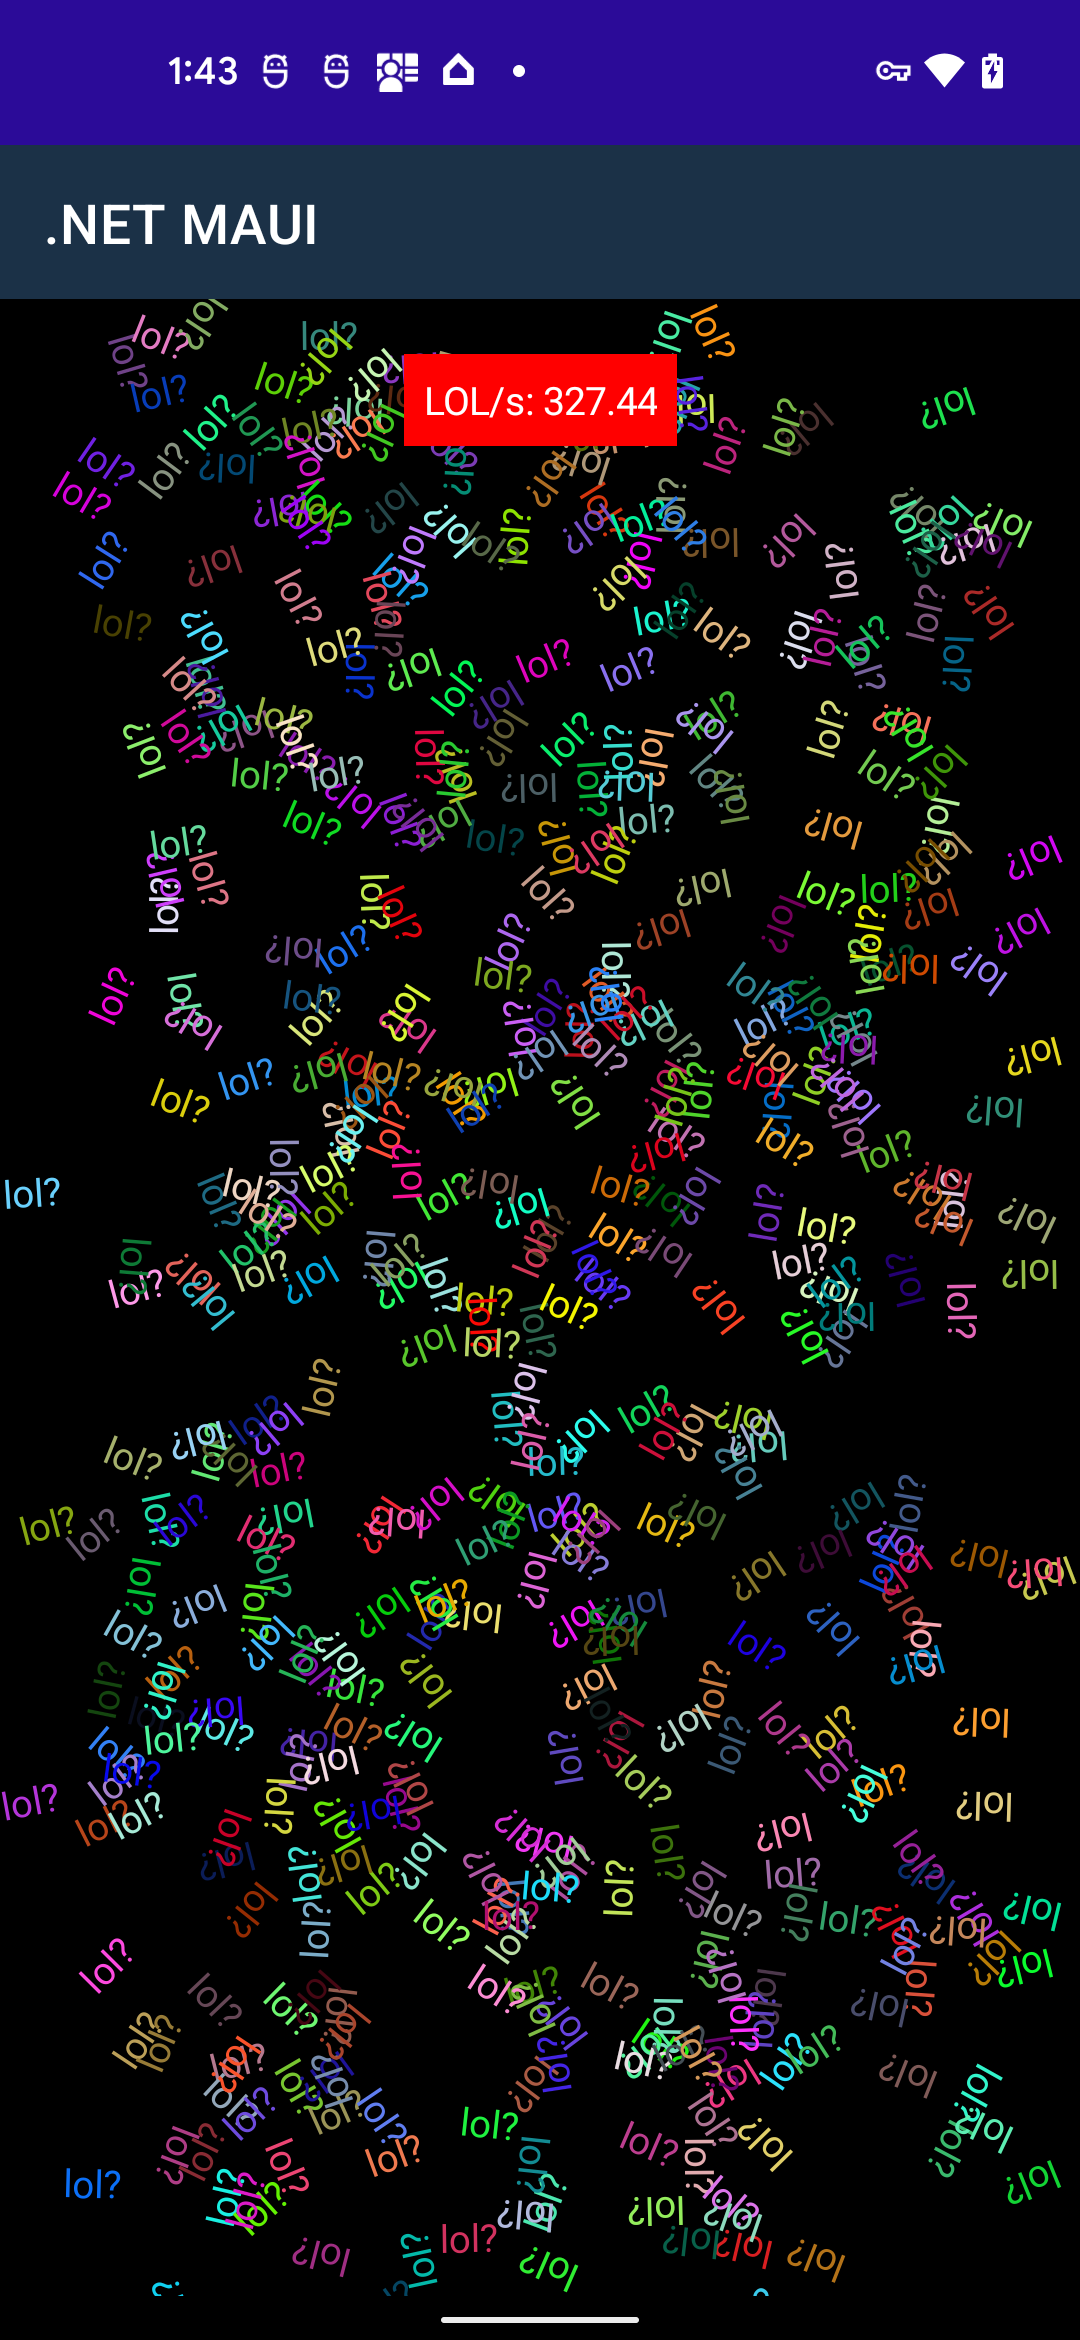
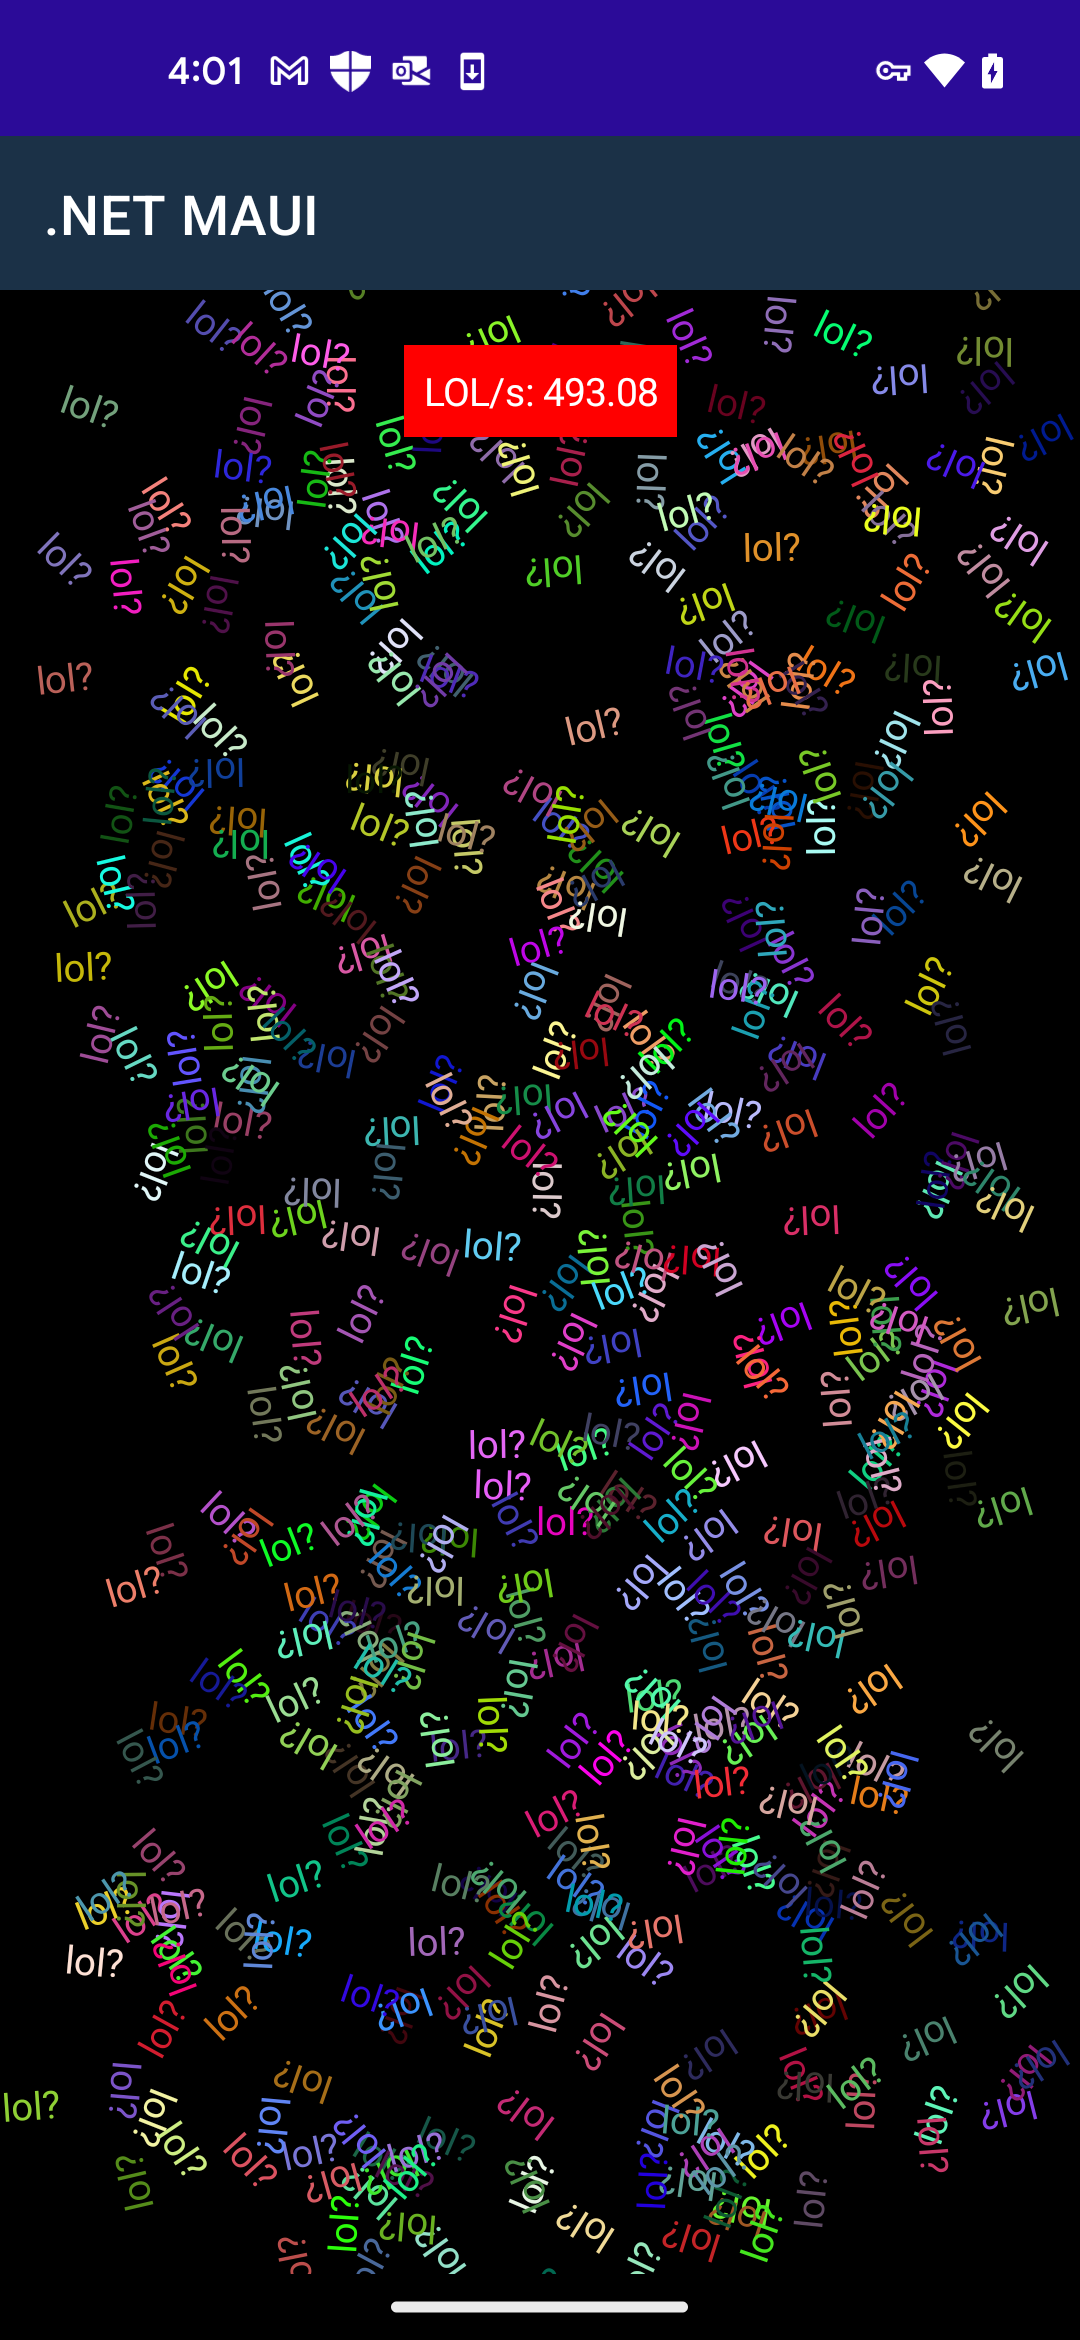
.NET MAUI in .NET 7 RC 2

diff --git a/src/maui/MainPage.xaml.cs b/src/maui/MainPage.xaml.cs
@@ -53,7 +53,7 @@ public partial class MainPage : ContentPage
 				count++;
 			});
 			//NOTE: plain Android we could put 1
-			Thread.Sleep(2);
+			Thread.Sleep(count % 2 == 0 ? 1 : 2);
 		}
 
 		stopwatch.Stop();
